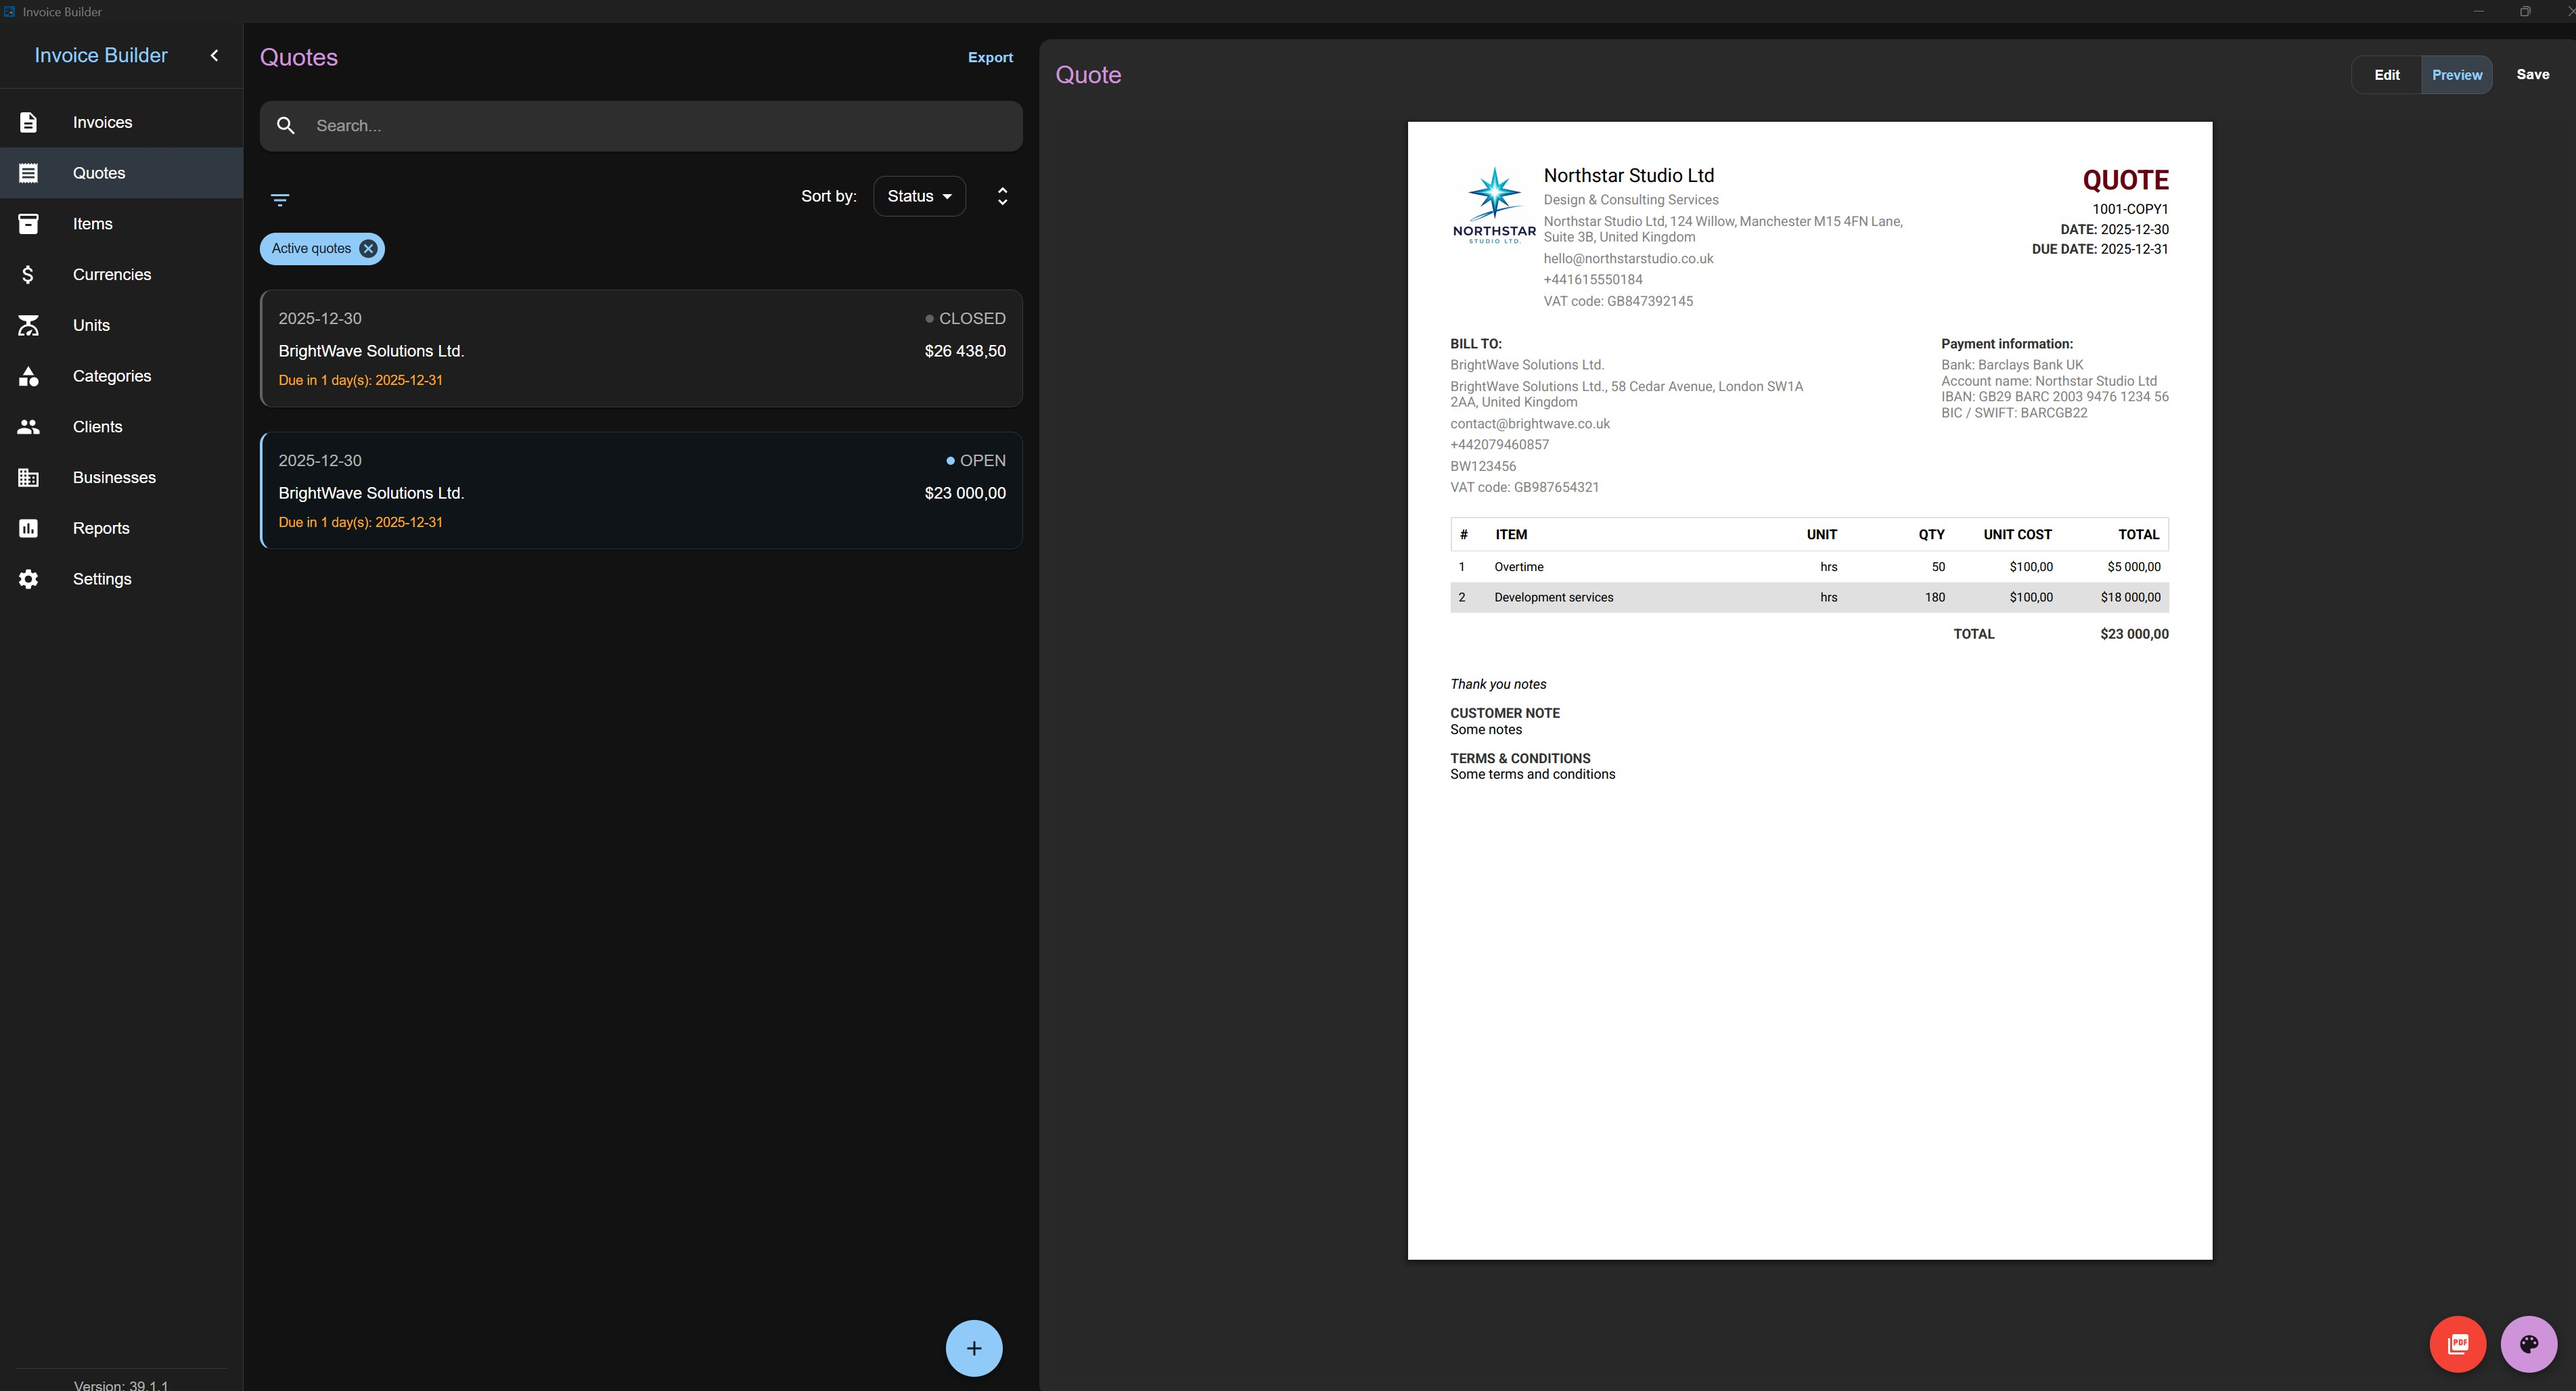
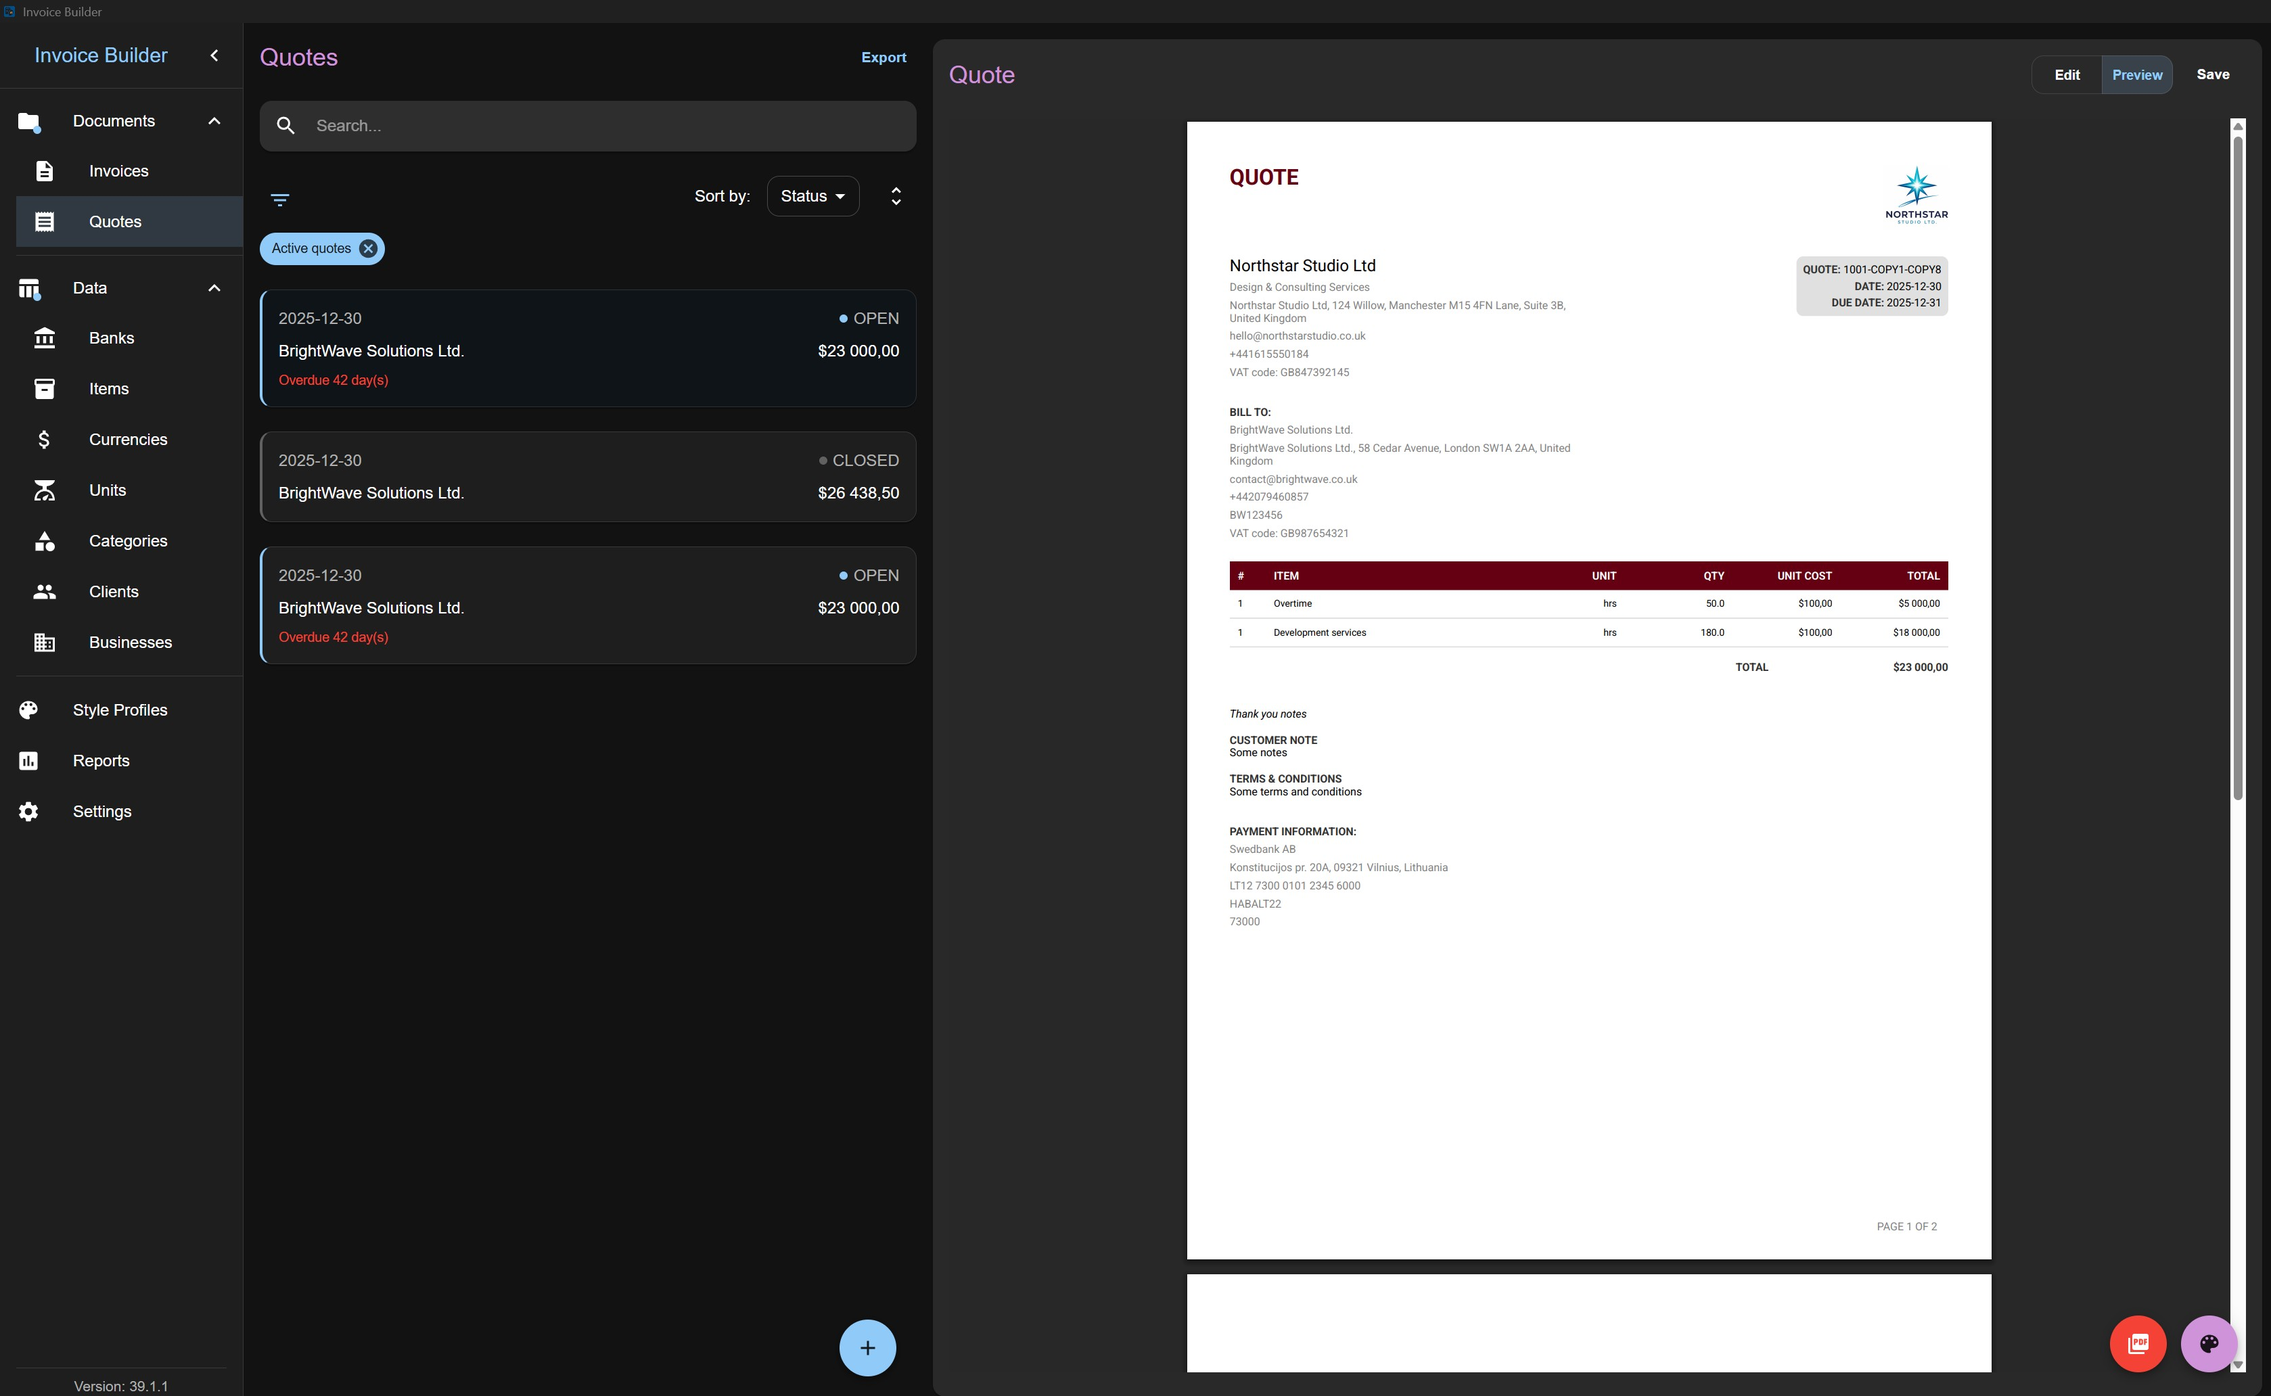
tutorial

diff --git a/TUTORIAL.md b/TUTORIAL.md
@@ -148,6 +148,69 @@ You can:
 
 ![Businesses import/export](tutorial/businesses_page_5.jpg)
 
+## Banks screen
+
+The **Banks** screen allows you to **create, read, update, and delete (CRUD)** bank data.
+
+You can also:
+
+- **Filter** banks by various criteria
+- **Import** and **export** banks via XLSX
+  > 💡 **Note:** XLSX import/export does **not** include bank qr code data.
+
+### Adding a Bankl
+
+Click the **Add** button at the bottom to open a modal where you can:
+
+- Enter bank information
+- Upload a QR code (crop and adjust as needed)
+  > ⚠ Maximum file size: 2 MB
+
+![Banks creation](tutorial/banks_page_1.jpg)
+
+### Editing/Deleting a Bank
+
+Once banks are added, select one from the list to edit it on the right side. Each bank item also shows:
+
+- Number of invoices created
+- Number of quotes created (hidden if the layout is disabled in settings)
+
+You can also:
+
+- **Search banks by name**
+- **Delete a bank** by clicking the red trash icon
+
+![Banks list](tutorial/banks_page_2.jpg)
+
+### Filters
+
+Banks have filters to control what is displayed. By default:
+
+- **Active**: shows all banks except archived
+
+The **archived flag** can be toggled during creation or editing. This flag only affects filtering and does not delete the bank.
+
+![Banks filters](tutorial/banks_page_3.jpg)
+
+### Sorting
+
+Banks can be sorted by:
+
+- Name
+- Last updated date
+
+![Banks sort](tutorial/banks_page_4.jpg)
+
+### Import & Export
+
+You can:
+
+- Export banks to XLSX
+- Import banks from XLSX
+- Download a XLSX template for bank import
+
+![Banks import/export](tutorial/banks_page_5.jpg)
+
 ## Clients screen
 
 The **Clients** screen allows you to **create, read, update, and delete (CRUD)** client data. You can also **filter**, **import**, and **export** clients via XLSX.

diff --git a/History.md b/History.md
@@ -5,7 +5,7 @@
 New features & improvements
 
 - Added validations for custom header sections (which now will be presented in UI)
-- Prefiling custom header section data if selected from existing one (sort order, alignment)
+- Prefiling custom header section data from last used if selected from existing one (sort order, alignment)
 - Added a tooltip explaining why the Save button is disabled when an invoice or quote is invalid
 - Added a visual "\*" indicator to highlight required fields in invoices and quotes
 - Added collapsible sections to the main menu, allowing related items to be grouped for a cleaner and more organized navigation experience

diff --git a/README.md b/README.md
@@ -202,6 +202,7 @@ No account required.
    - a Business
    - a Currency
    - a Client
+   - a Bank
    - an Item
 4. Create your first Invoice or Quote
 5. Preview and export to PDF
